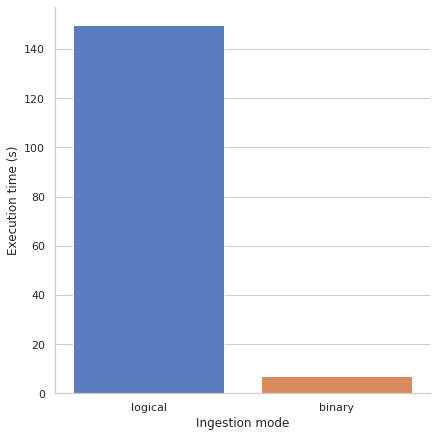
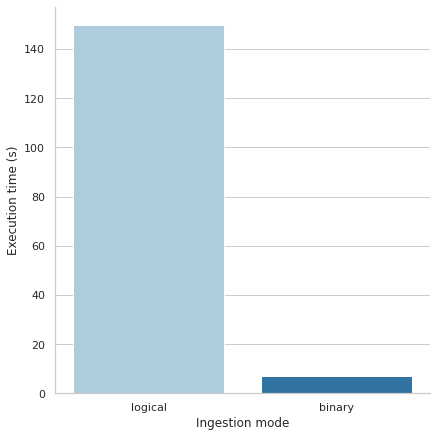
Updated query figures' legends and 2.7's colors

diff --git a/experiment_graphs.py b/experiment_graphs.py
@@ -17,6 +17,7 @@ import seaborn as sns
 
 # import snpdb
 
+# %%
 # Import results from output of experiment.py
 results: dict = {}
 try:
@@ -492,6 +493,8 @@ df_melted = pd.melt(
     id_vars=["experiment_id", "compression_method", "file_type", "nsnps", "nsamples"],
     value_vars=["summarize"],
 )
+df_melted.loc[:, "nsnps"].replace(100000.0, "100k", inplace=True)
+df_melted.loc[:, "nsnps"].replace(1000000.0, "1m", inplace=True)
 sns.set(style="whitegrid", palette=sns.color_palette("muted", n_colors=6, desat=1.0))
 
 fig = plt.figure(figsize=(6.4, 6.4))
@@ -511,7 +514,7 @@ ax = sns.lineplot(
 ax.set_xscale("log")
 ax.set_yscale("log")
 # ax.set_title("compression_method = zlib")
-ax.set_xlabel("# of samples")
+ax.set_xlabel("# of samples in the database")
 ax.set_ylabel("Execution time (s)")
 
 # for nsnps in df_melted["nsnps"].unique():
@@ -571,6 +574,8 @@ df_melted = pd.melt(
     id_vars=["experiment_id", "compression_method", "file_type", "nsnps", "nsamples"],
     value_vars=["individuals_of_snps"],
 )
+df_melted.loc[:, "nsnps"].replace(100000.0, "100k", inplace=True)
+df_melted.loc[:, "nsnps"].replace(1000000.0, "1m", inplace=True)
 sns.set(style="whitegrid", palette=sns.color_palette("muted", n_colors=6, desat=1.0))
 
 fig = plt.figure(figsize=(6.4, 6.4))
@@ -590,7 +595,7 @@ ax = sns.lineplot(
 ax.set_xscale("log")
 ax.set_yscale("log")
 # ax.set_title("compression_method = zlib")
-ax.set_xlabel("# of samples")
+ax.set_xlabel("# of samples in the database")
 ax.set_ylabel("Execution time (s)")
 
 # for nsnps in df_melted["nsnps"].unique():
@@ -717,7 +722,7 @@ df_melted = pd.melt(
     id_vars=["exp_27"],
     value_vars=["time"],
 )
-sns.set(style="whitegrid", palette=sns.color_palette("muted", n_colors=6, desat=1.0))
+sns.set(style="whitegrid", palette=sns.color_palette("Paired", n_colors=2, desat=1.0))
 snsplot = sns.catplot(
     x="exp_27",
     y="value",
